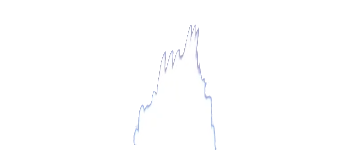
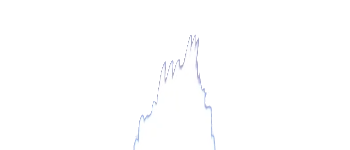
22.05.20 이건호 GroundWave 이미지수정, 가속설정

Changed region(s): [[0.4571, 0.16, 0.6286, 0.7467], [0.3714, 0.56, 0.4571, 1.0], [0.6, 0.8267, 0.6286, 1.0]]

diff --git a/GameApp/MiddleBoss.cpp b/GameApp/MiddleBoss.cpp
@@ -402,11 +402,11 @@ void MiddleBoss::SetCallBackFunc()
 			{
 				StateManager_.ChangeState("GetUp");
 				GroundWave* WaveAttackLeft = GetLevel()->CreateActor<GroundWave>();
-				WaveAttackLeft->GetTransform()->SetWorldPosition(GetTransform()->GetWorldPosition() += {0.0f, 60.0f, 2.0f});
+				WaveAttackLeft->GetTransform()->SetWorldPosition(GetTransform()->GetWorldPosition() += {0.0f, 55.0f, -2.0f});
 				WaveAttackLeft->Direction = LeftRight::LEFT;
 
 				GroundWave* WaveAttackRight = GetLevel()->CreateActor<GroundWave>();
-				WaveAttackRight->GetTransform()->SetWorldPosition(GetTransform()->GetWorldPosition() += {0.0f, 60.0f, 2.0f});
+				WaveAttackRight->GetTransform()->SetWorldPosition(GetTransform()->GetWorldPosition() += {0.0f, 55.0f, -2.0f});
 				WaveAttackRight->Direction = LeftRight::RIGHT;
 
 			}

diff --git a/GameApp/GroundWave.h b/GameApp/GroundWave.h
@@ -16,7 +16,6 @@ public:
 
 	GameEngineImageRenderer* ImageRenderer;
 	GameEngineCollision* Collision;
-	GameEngineFSM StateManager_;
 
 	LeftRight Direction;
 

diff --git a/GameApp/FinalBoss.h b/GameApp/FinalBoss.h
@@ -80,7 +80,7 @@ public:
 	float4 JumpPower;
 	float TurnTime;
 	float ImmuneTime;
-	float JumpReadyTime;
+	float AttackReadyTime;
 	float Speed;
 };
 
